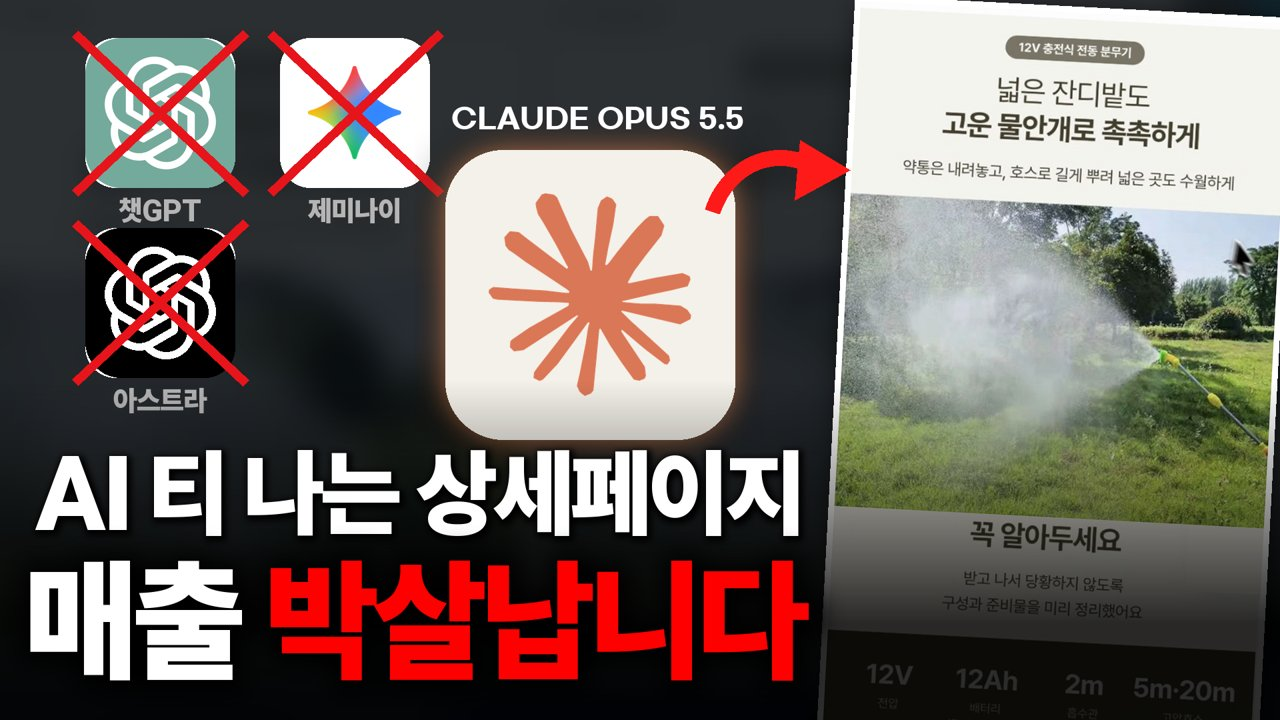
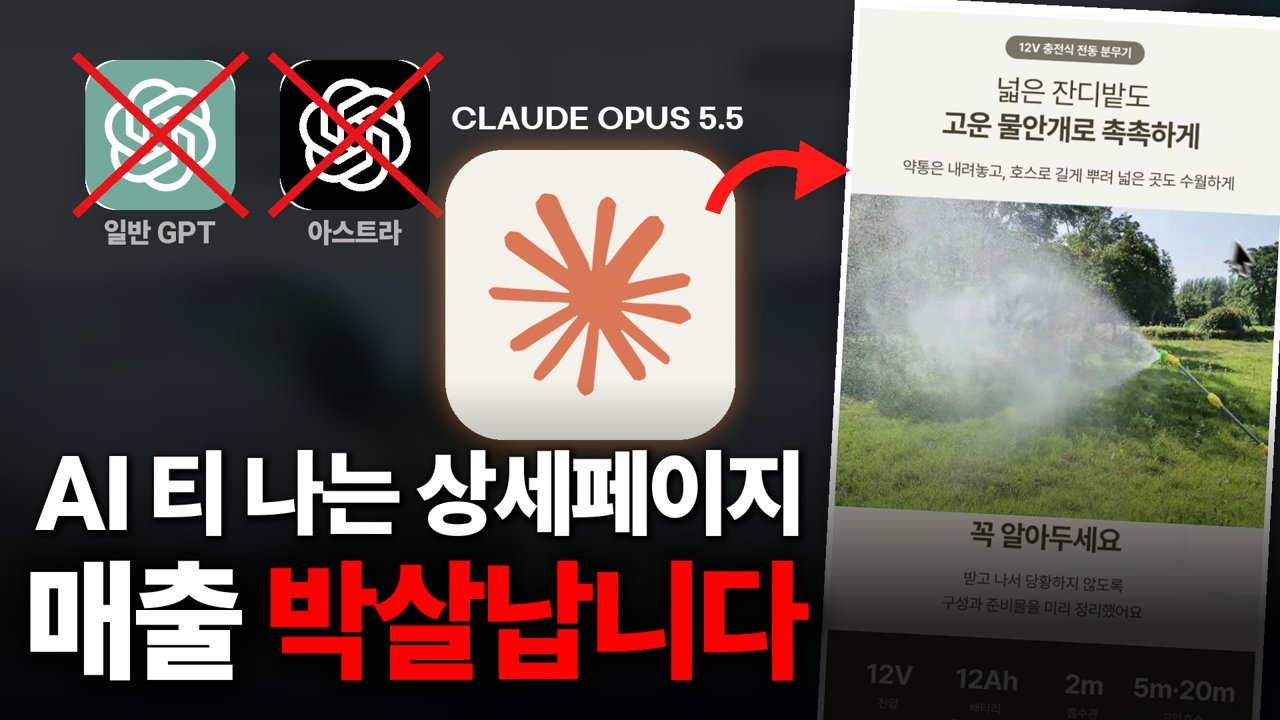
v10 매출형 제목, 제미나이 제거

Changed region(s): [[0.0625, 0.0306, 0.3438, 0.5806]]

diff --git a/index.html b/index.html
@@ -39,7 +39,7 @@ ol li{margin:4px 0}
 <body>
 <div class="wrap">
 <h1>31화 썸네일·제목 A/B/C 테스트</h1>
-<p class="sub">썸네일 문구 v9(매출형, 11/6) · 상세페이지 GPT vs 아스트라 vs 클로드 오퍼스 비교 · 썸네일 3종 × 제목 3개 · ★ = 추천 조합 · 이미지 누르면 크게</p>
+<p class="sub">썸네일·제목 매출형 v10(11/6, 제미나이 아이콘 제거) · 상세페이지 GPT vs 아스트라 vs 클로드 오퍼스 비교 · 썸네일 3종 × 제목 3개 · ★ = 추천 조합 · 이미지 누르면 크게</p>
 
 <div class="cols">
 
@@ -50,11 +50,11 @@ ol li{margin:4px 0}
 <div class="copy">상세페이지 이걸로 바꾸고<br><em>매출 터졌습니다</em></div>
 <div><div class="label">제목 후보</div>
 <ol>
-<li class="best">상세페이지 아직 GPT로 만드세요? 같은 원본으로 3개 돌려보고 바로 갈아탔습니다</li>
-<li>상세페이지 아스트라가 최고라길래 써봤는데… 결국 다른 AI로 정착했습니다</li>
-<li>상세페이지 AI, GPT·아스트라·클로드 다 써보고 딱 하나만 남겼습니다</li>
+<li class="best">상세페이지 이걸로 바꾸고 매출 터졌습니다, GPT·아스트라 다 써보고 정착한 AI</li>
+<li>상세페이지 하나 바꿨을 뿐인데… GPT·아스트라·클로드 비교하고 이걸로 갈아탔습니다</li>
+<li>매출 안 나오면 상세페이지부터 바꾸세요, AI 3개 직접 비교하고 찾은 답</li>
 </ol></div>
-<div class="note">"갈아탔습니다·정착했습니다"는 영상에서 직접 한 말이 아님. 결론(오퍼스가 압도적)에서 끌어온 표현이라 용팀장 확인 필요</div>
+<div class="note">"매출 터졌습니다·갈아탔습니다"는 영상에 판매 결과나 직접 한 말이 없음. 실제 매출 화면이 있는지 용팀장 확인 필요</div>
 <div class="ref"><img src="assets/ref_a.jpg" alt="레퍼런스: AI 상세페이지 만들다 빡쳐서 여기로 갈아탔습니다"><p><span class="chip">11.2배</span> 돈벌자옹<br>"AI 상세페이지 만들다 빡쳐서 / 여기로 갈아탔습니다"</p></div>
 </div></div>
 
@@ -65,11 +65,11 @@ ol li{margin:4px 0}
 <div class="copy">AI 티 나는 상세페이지<br><em>매출 박살납니다</em></div>
 <div><div class="label">제목 후보</div>
 <ol>
-<li class="best">상세페이지 아직도 GPT로 만드세요? 클로드 오퍼스가 압도적이었습니다</li>
-<li>상세페이지 끝판왕 공개, GPT·아스트라 다 제치고 클로드가 이겼습니다</li>
-<li>아스트라 vs 클로드 오퍼스, 같은 사진 넣고 붙여보니 상세페이지 차이가 이 정도입니다</li>
+<li class="best">AI 티 나는 상세페이지, 매출 박살납니다 | 아스트라 vs 클로드 오퍼스 직접 비교</li>
+<li>GPT로 만든 상세페이지 그대로 올리면 안 팔리는 이유 (클로드 오퍼스 비교)</li>
+<li>아직도 GPT로 상세페이지 만드세요? AI 티 나면 매출 안 나옵니다</li>
 </ol></div>
-<div class="note">썸네일의 제미나이 아이콘(X)은 영상에서 비교하지 않음. 빼거나 다른 아이콘으로 바꾸는 게 안전</div>
+<div class="note">"박살납니다·안 팔리는 이유"는 영상에서 아스트라 표현이 "인위적인 AI 같은 느낌"(4:20)이라고 한 데서 끌어온 경고. 매출 수치 근거는 없음</div>
 <div class="ref"><img src="assets/ref_b.jpg" alt="레퍼런스: 포토샵 없이 상세페이지 가능?"><p><span class="chip">6.5배</span> 구대판다<br>"포토샵 없이 / 상세페이지 가능?"</p></div>
 </div></div>
 
@@ -80,11 +80,11 @@ ol li{margin:4px 0}
 <div class="copy">원본만 넣었는데<br><em>매출 폭발 상세페이지</em></div>
 <div><div class="label">제목 후보</div>
 <ol>
-<li class="best">역대급입니다;; 중국어 원본만 넣었는데 상세페이지가 10분 만에 이렇게 나옵니다</li>
-<li>상세페이지 번역하고 고치느라 시간 쓰지 마세요, 원본만 넣으면 10분이면 됩니다</li>
-<li>중국어 상세페이지 그대로 넣고 10분, AI 3개 중 이게 제일 잘 만듭니다 (프롬프트 무료)</li>
+<li class="best">중국어 원본만 넣었는데, 매출 폭발 상세페이지가 10분 만에 나옵니다 (프롬프트 무료)</li>
+<li>역대급입니다;; 원본 넣고 10분, 매출 나오는 상세페이지 만드는 법</li>
+<li>번역하고 고치느라 매출 놓치지 마세요, 원본만 넣으면 상세페이지 10분 완성</li>
 </ol></div>
-<div class="note">"역대급입니다;;"는 용팀장 채널에서 평소의 3.9배가 나온 상세페이지 회차 제목 말투</div>
+<div class="note">"역대급입니다;;"는 용팀장 채널에서 평소의 3.9배가 나온 상세페이지 회차 제목 말투. "매출 폭발"은 영상에 판매 결과가 없어 근거 확인 필요</div>
 <div class="ref"><img src="assets/ref_c.jpg" alt="레퍼런스: 타오바오 PDF 넣으면 상세페이지 자동완성"><p><span class="chip">3.9배</span> 용팀장 자체 회차<br>"타오바오 PDF 넣으면 / 상세페이지 자동완성"</p></div>
 </div></div>
 
@@ -96,7 +96,7 @@ ol li{margin:4px 0}
 <li>배수 = 그 영상 조회수 ÷ 그 채널 최근 롱폼 30개 조회수 중앙값 (2026-11-06 수집, 후보 164개 중 선정)</li>
 <li>제목·문구의 숫자와 주장은 영상(v9)에서 한 말만: 중국어 원본만 넣었는데 0:01 · 아스트라 대박이라는 영상 많다 0:12 · 같은 이미지로 비교 4:11 · 오퍼스가 압도적(본인 판단) 5:23 · 1개 10분 정도 5:50 · 프롬프트 무료 6:09</li>
 <li>썸네일 매출 문구(터졌습니다·박살납니다·폭발)는 사용자 지정. 영상에는 판매 결과가 없어 용팀장 팩 기준(근거 없는 매출 주장·공포 표현 금지)과 부딪힘 → 실제 매출 화면 확보 여부 용팀장 확인 필요</li>
-<li>글자: 용팀장 썸네일 규격(Freesentation 9 Black + 검정 큰 그림자, esamanru 노랑→주황 그라데이션, 강원교육모두체 손글씨). 아이콘은 실제 ChatGPT·Claude·Gemini 로고</li>
+<li>글자: 용팀장 썸네일 규격(Freesentation 9 Black + 검정 큰 그림자, esamanru 노랑→주황 그라데이션, 강원교육모두체 손글씨). 아이콘은 실제 ChatGPT·Claude 로고(제미나이는 영상에서 비교하지 않아 뺌)</li>
 </ul>
 </div>
 </div>
